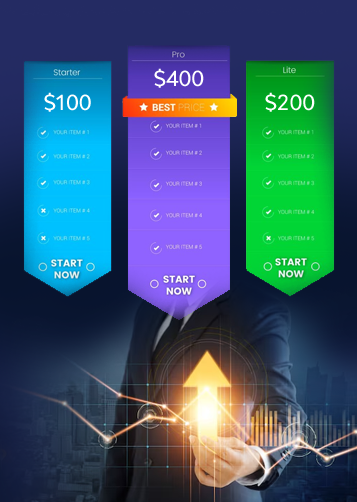
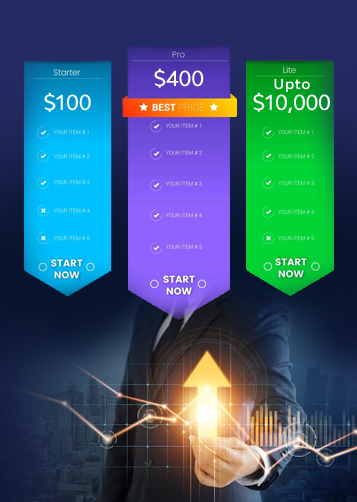
chnages done

Changed region(s): [[0.7087, 0.1494, 0.9244, 0.239]]

diff --git a/index.html b/index.html
@@ -1372,7 +1372,7 @@
                                                     </figure>
                                                     <div class="content">
                                                         <span>Diverse Onboarding Packages</span>
-                                                        <p class="elementor-heading-title">Probo offers a variety of packages to fit different budgets, ranging from $100 to $400, each providing unique benefits. The minimum property size included is 350 sq ft for a studio apartment.</p>
+                                                        <p class="elementor-heading-title">Probo offers a variety of packages to fit different budgets, ranging from $100, $400, upto $10,000 each providing unique benefits. The minimum property size included is 350 sq ft for a studio apartment.</p>
 
                                                     </div>
                                                 </div>
@@ -1384,7 +1384,7 @@
                                                     </figure>
                                                     <div class="content">
                                                         <span>Passive Income Bonus</span>
-                                                        <p class="elementor-heading-title">Registered users with upgraded packages can enjoy a 12% monthly return on their deposits for up to 18 months.</p>
+                                                        <p class="elementor-heading-title">Registered users with upgraded packages can enjoy a 8% monthly return on their deposits for up to 30 months.</p>
 
                                                     </div>
                                                 </div>
